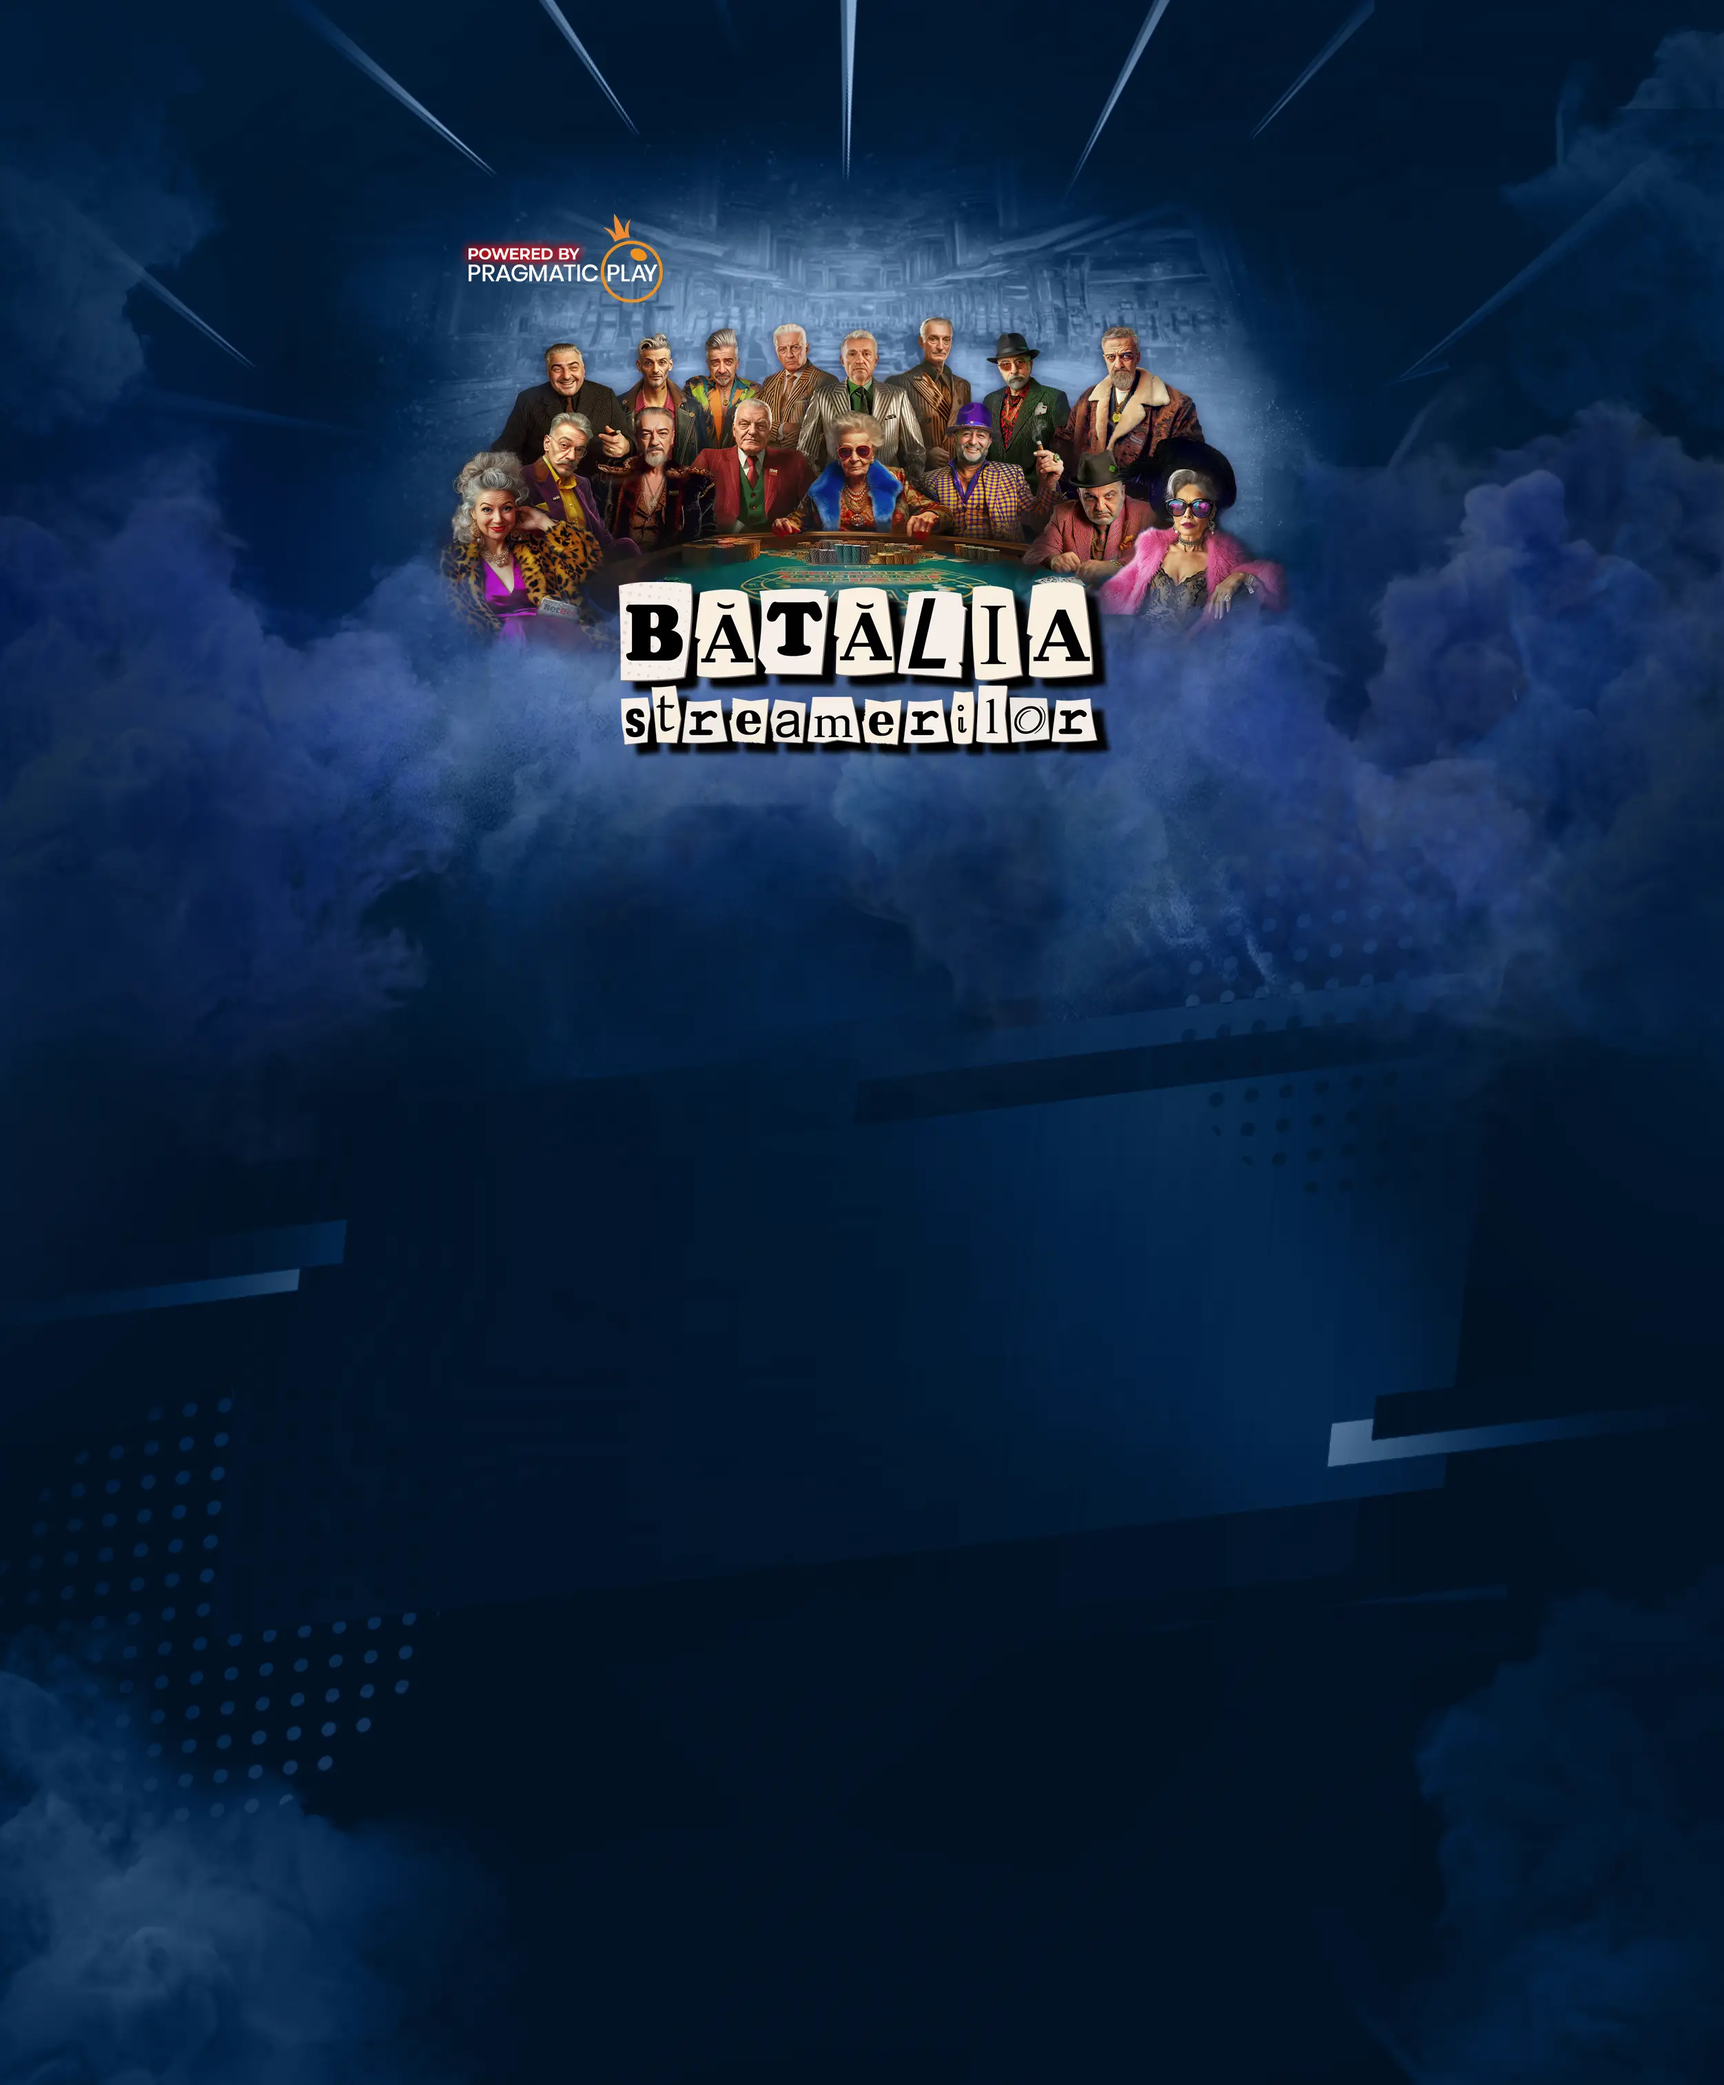
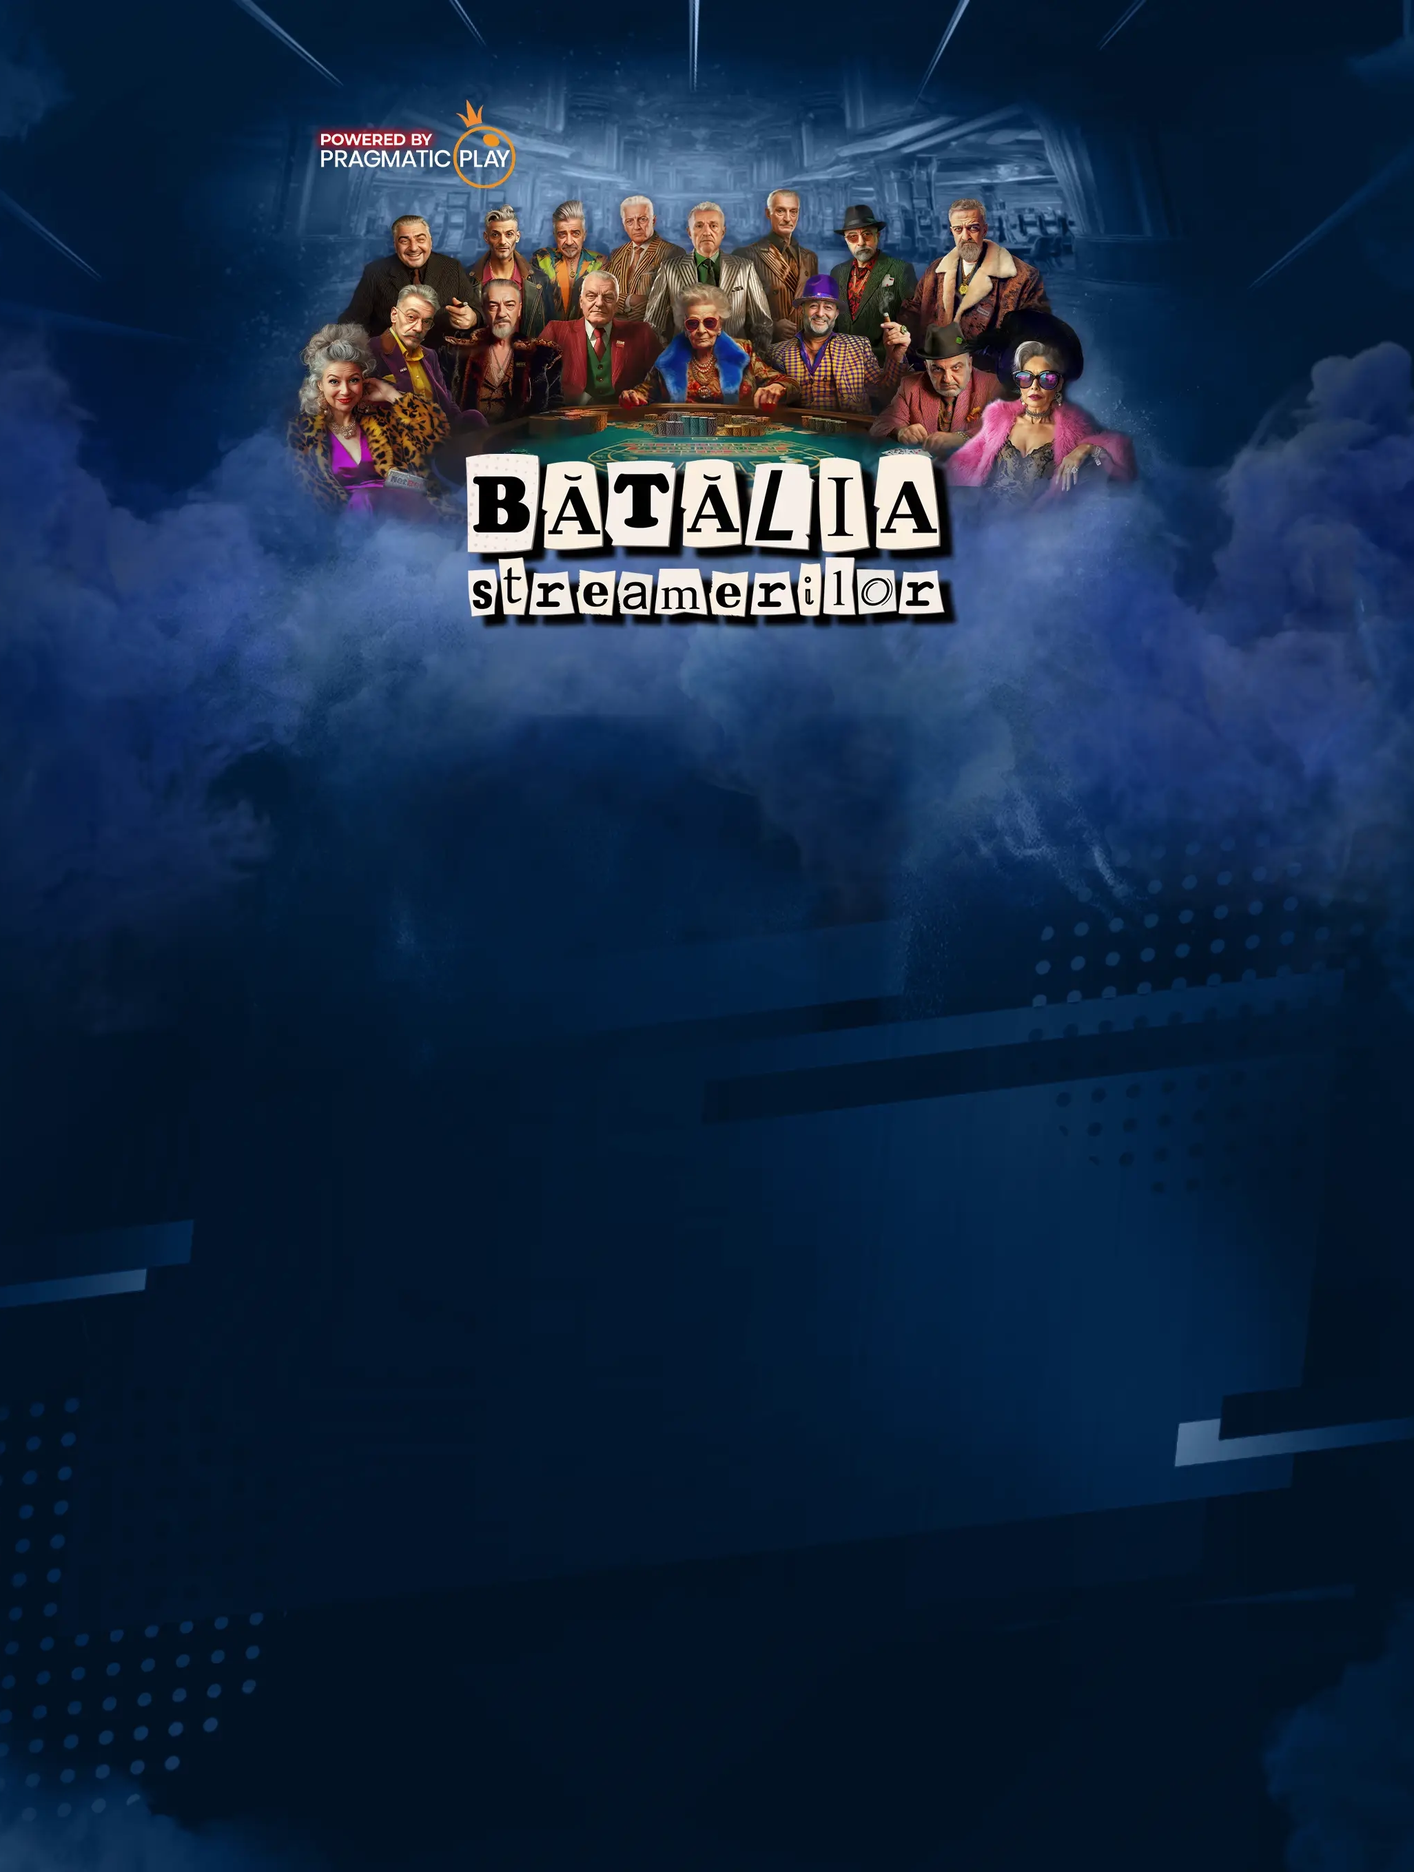
update

diff --git a/batalia-streamerilor-2024/index.css b/batalia-streamerilor-2024/index.css
@@ -302,6 +302,16 @@ body {
   position: relative;
 }
 
+/*  header casino */
+/*  header casino */
+/*  header casino */
+
+
+
+/*  header casino */
+/*  header casino */
+
+
 /* end settings */
 /* end settings */
 /* end settings */
@@ -323,9 +333,27 @@ footer,
   overflow-x: hidden;
 }
 
-.section:nth-child(1) {
-  height: 100vh;
+
+header {
+  height: 70px;
 }
+
+.section:nth-child(1)  {
+  height: calc(100vh - 90px);
+}
+
+@media (min-width: 1025px) {
+  .section:nth-child(1)  {
+      height: calc(100vh - 90px);
+  }
+  header {
+    height: 90px;
+  }
+  
+}
+
+
+
 
 .main-section .left-side img {
   width: 80%;
@@ -349,7 +377,7 @@ button:not(.controls button) {
   color: #fff;
   font-family: "montExtraBold";
   text-transform: uppercase;
-  font-size: 160%;
+  font-size: 130%;
   border-bottom: 1px solid #643316;
 }
 
@@ -523,10 +551,7 @@ footer ._page.visible {
 .section.s1 {
   flex-direction: column;
 }
-.section.s1::after {
-  background-position: center;
-  background-image: var(--bg-sect1);
-}
+
 
 .section.s1::after,
 .section.s2::after,
@@ -541,6 +566,10 @@ footer ._page.visible {
   background-size: cover;
   background-repeat: no-repeat;
   z-index: 0;
+}
+.section.s1::after {
+  background-position: center ;
+  background-image: var(--bg-sect1);
 }
 
 .section.s1 .carousel {
@@ -578,7 +607,6 @@ footer ._page.visible {
   flex-direction: column;
   justify-content: center;
   align-items: center;
-  margin-top: 2rem;
 }
 .offer-content {
   font-size: 4.5vh;
@@ -782,7 +810,7 @@ footer .section_title {
   }
 }
 
-@media (max-width: 991px) {
+@media (max-width: 1024px) {
   button:not(.controls button) {
     padding: 1rem 2rem;
     font-size: 100%;
@@ -800,6 +828,7 @@ footer .section_title {
   }
   .section.s1::after {
     background-image: var(--bg-mobile);
+    background-position: top;
   }
 
   .section:nth-child(1) .parent {
@@ -831,9 +860,10 @@ footer .section_title {
     text-align: center;
     font-size: 115%;
     width: 100%;
-    padding: 0 5px;
-    margin: 8px auto;
+    /* padding: 0 5px; */
+    margin:0;
   }
+
 
   .section.s2 .section_title p:nth-last-child(1) {
     text-align: center !important;
@@ -861,13 +891,26 @@ footer .section_title {
     margin: 4% 0 4%;
   }
 }
+
+@media (min-width: 992px) and (max-width:1500px) and (max-height: 767px) and (orientation: landscape) {  
+.carousel {
+  transform: scale(0.8);
+  -webkit-transform: scale(0.8);
+}
+.container-table {
+  transform: scale(0.9);
+ -webkit-transform: scale(0.9);
+}
+
+  
+}
 @media (min-width: 1921px) {
   .section .parent {
     max-width: 90%;
   }
 
   .section.s2 .section_title p {
-    font-size: 140%;
+    font-size: 130%;
   }
   .section .parent:not(.section.s1 .parent),
   .terms-container {

diff --git a/batalia-streamerilor-2024/src/css/carousel.css b/batalia-streamerilor-2024/src/css/carousel.css
@@ -5,7 +5,7 @@
   bottom: 0%;
 }
 
- .section.s1 .carousel::after {
+.section.s1 .carousel::after {
   content: "";
   position: absolute;
   top: 0;
@@ -73,7 +73,7 @@
 }
 
 .footer-game p:nth-child(2) {
-  font-size:110%;
+  font-size: 110%;
 }
 
 .blaze-track .footer-game p {
@@ -109,7 +109,7 @@
   width: 100%;
   height: auto;
   object-fit: contain;
-  filter:drop-shadow(0px 0px 4px #89ccff)
+  filter: drop-shadow(0px 0px 4px #89ccff);
 }
 
 .blaze-track .footer-game::after {
@@ -165,7 +165,6 @@
   background: #3f0403;
 }
 
-
 /* controls */
 .blaze-slider .controls {
   position: absolute;
@@ -201,7 +200,6 @@
   --slide-gap: 12px !important;
 }
 
-
 /* image carousel */
 #image-carousel .blaze-track div a img {
   width: 85%;
@@ -212,8 +210,8 @@
 }
 
 #image-carousel .blaze-track div {
-position: relative;
-box-shadow: 2px 5px 12px black;
+  position: relative;
+  box-shadow: 2px 5px 12px black;
 }
 
 #image-carousel .blaze-track div::after {
@@ -231,7 +229,6 @@ box-shadow: 2px 5px 12px black;
   border: 1px solid #a8deff;
 }
 
-
 /* next prev */
 #games-carousel .controls button {
   color: transparent;
@@ -241,7 +238,8 @@ box-shadow: 2px 5px 12px black;
 
   transition: all 150ms ease-out;
 }
-#games-carousel .controls button::before, #games-carousel .controls button::after {
+#games-carousel .controls button::before,
+#games-carousel .controls button::after {
   content: "";
   display: block;
   position: absolute;
@@ -267,12 +265,10 @@ box-shadow: 2px 5px 12px black;
   transform: rotate(135deg);
 }
 
-
-
 @media (min-width: 1441px) {
   .section.s2 .blaze-slider {
     transform: scale(1);
-   -webkit-transform: scale(1);
+    -webkit-transform: scale(1);
   }
   #games-carousel .blaze-slider {
     --slides-to-show: 7 !important;
@@ -286,7 +282,7 @@ box-shadow: 2px 5px 12px black;
 @media (max-width: 1440px) {
   .section.s2 .blaze-slider {
     transform: scale(0.85);
-   -webkit-transform: scale(0.85);
+    -webkit-transform: scale(0.85);
   }
   #games-carousel .blaze-slider {
     --slides-to-show: 7 !important;
@@ -310,6 +306,16 @@ box-shadow: 2px 5px 12px black;
   #image-carousel .blaze-slider {
     --slides-to-show: 5 !important;
   }
+  .footer-game.footer-game p:nth-child(1) {
+    font-size: 0.9rem;
+  }
+  .footer-game.footer-game p:nth-child(2) {
+    font-size: 1.1rem;
+  }
+  #games-carousel .blaze-slider {
+    margin-top: -10px;
+  }
+
 }
 
 @media (max-width: 991px) and (orientation: portrait) {

diff --git a/batalia-streamerilor-2024/indexNoTracking.html b/batalia-streamerilor-2024/indexNoTracking.html
@@ -47,6 +47,7 @@ if (!empty($qsa))
 </head>
 
 <body>
+  <header style="background-color: blue;"></header>
   <div class="targetShoot" id="target">
     <main class="panelWrap">
       <section class="section s1 _b" id="section1">
@@ -89,10 +90,13 @@ if (!empty($qsa))
             <h2>BĂTĂLIA STREAMERILOR REVINE CU <br> PREMII FABULOASE!</h2>
             <div class="section_title">
               <p>
-                Joacă pe NetBet și adună puncte în perioada <span>8 octombrie – 22 noiembrie</span> și câștigi garantat
+                Joacă pe NetBet și adună puncte în perioada <span>8 octombrie – 22 noiembrie</span> </p>
+                 <p>și câștigi garantat
                 unul din premiile puse la bătaie! </p>
+                <br>
               <p>Luptă-te pentru top 200 și vei avea parte de extra surprize – premii cash și pachete cadou by Pragmatic
                 Play.</p>
+                <br>
               <p>Alătură-te streamerilor și joacă sloturile tale preferate, dar nu uita că cele de la <span>Pragmatic
                   Play</span> îți asigură:</p>
               <p>★★★ PUNCTE DUBLE ★★★</p>

diff --git a/batalia-streamerilor-2024/src/css/table.css b/batalia-streamerilor-2024/src/css/table.css
@@ -22,7 +22,7 @@ table.tableNetBet {
 
 table.tableNetBet td,
 table.tableNetBet th {
-  border: 1px solid #000000;
+  border: 1px solid #a8dff4;
   padding: 10px 4px;
 }
 
@@ -32,8 +32,6 @@ table.tableNetBet tbody td {
 
 table.tableNetBet thead {
   background: var(--button_color);
-
-  border-bottom: 3px solid #000000;
 }
 
 table.tableNetBet thead th {
